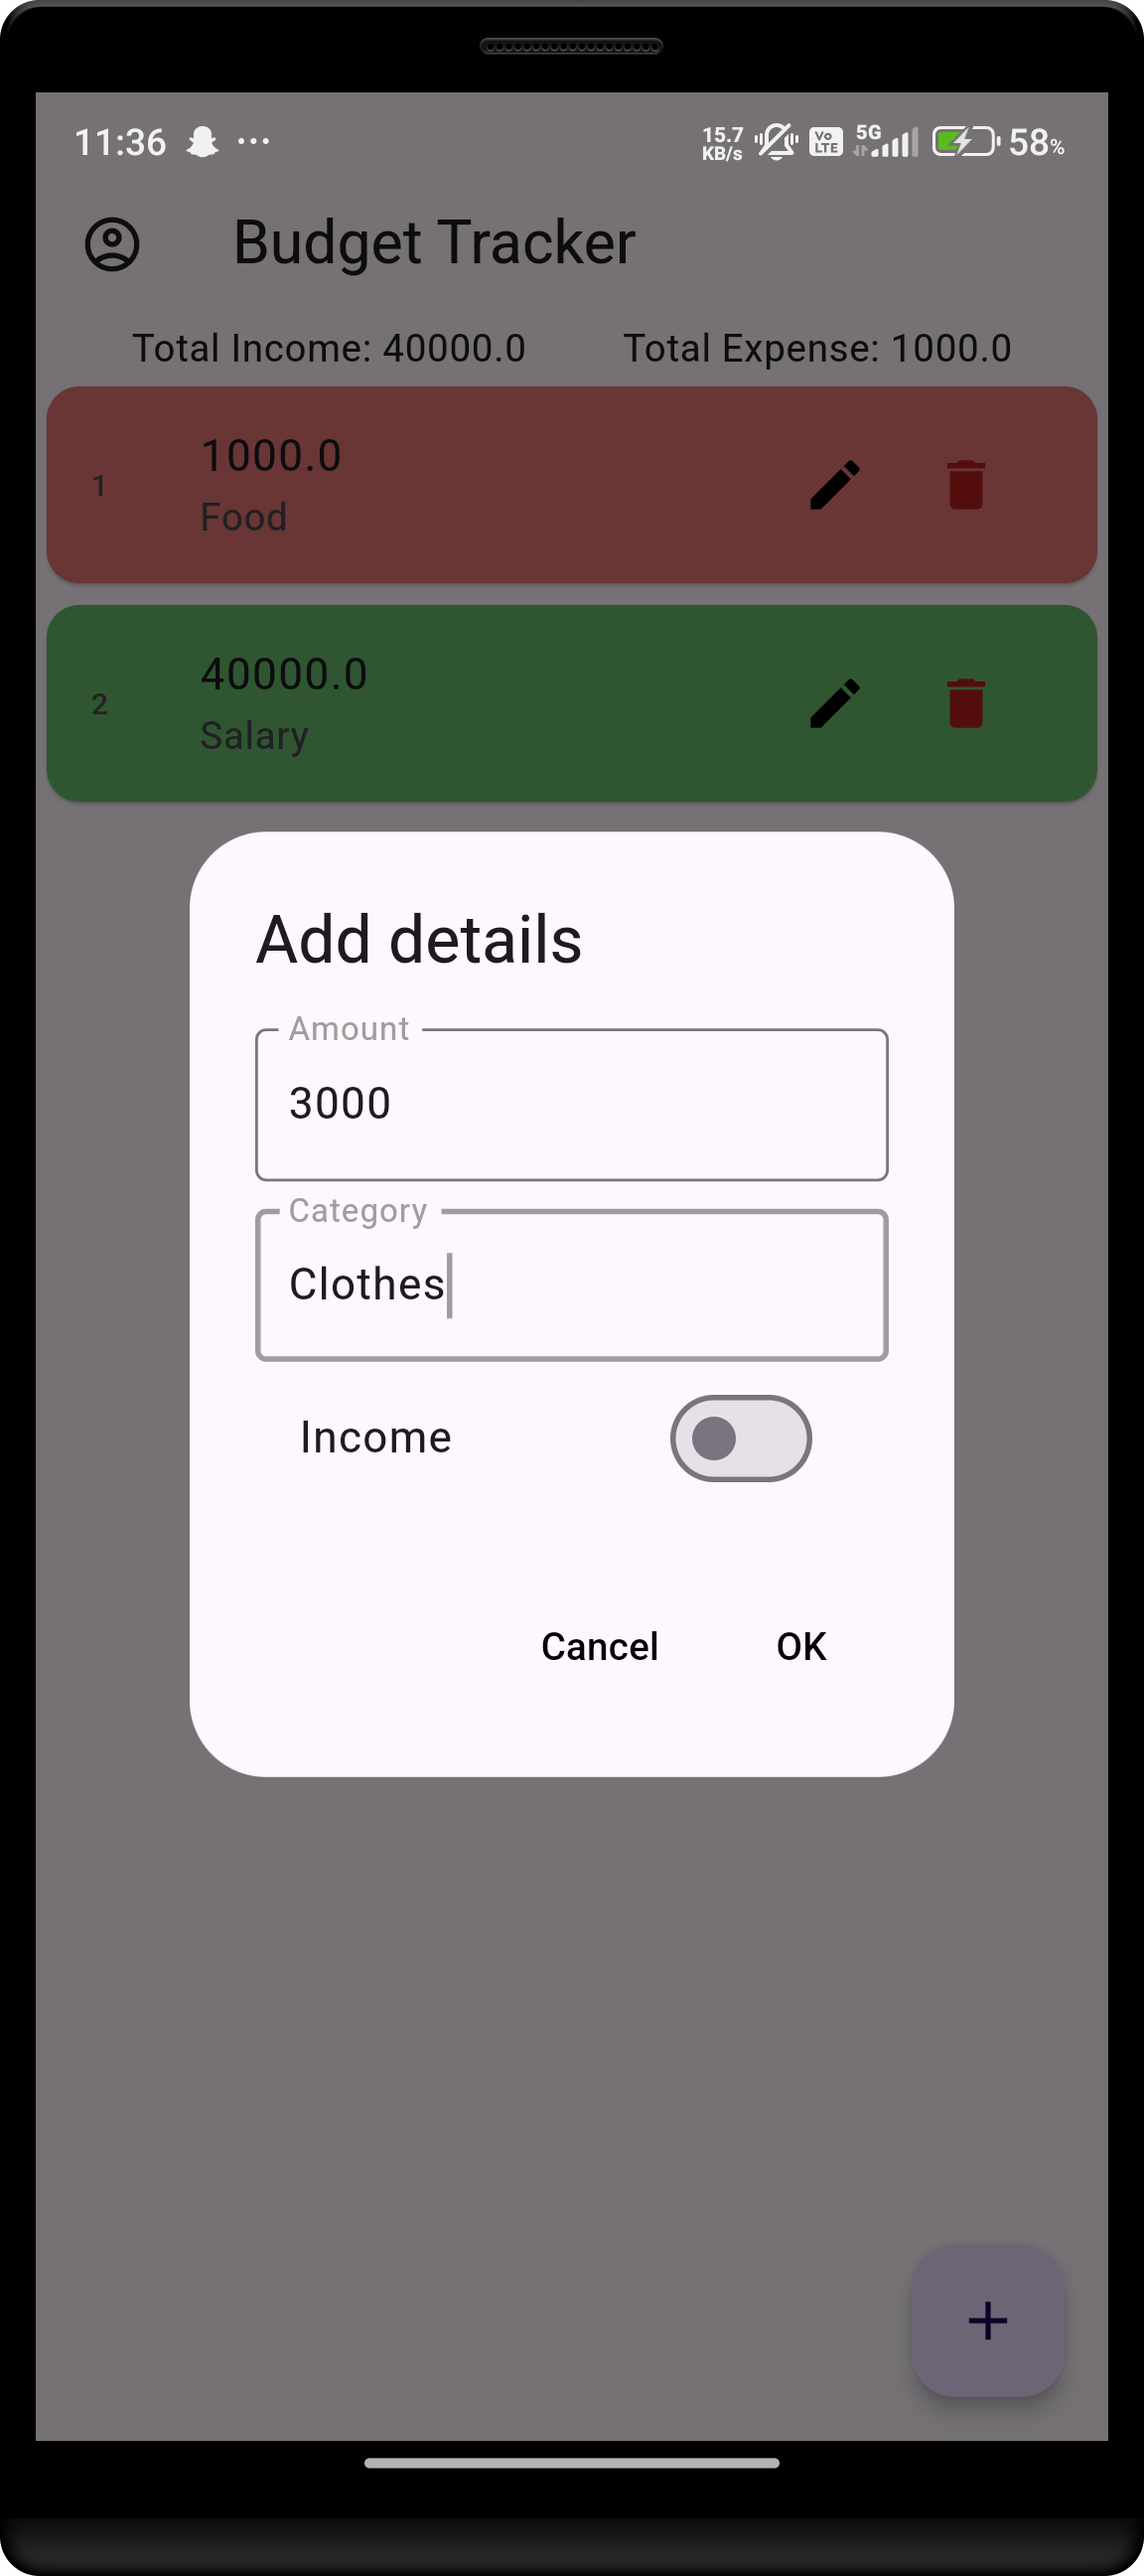
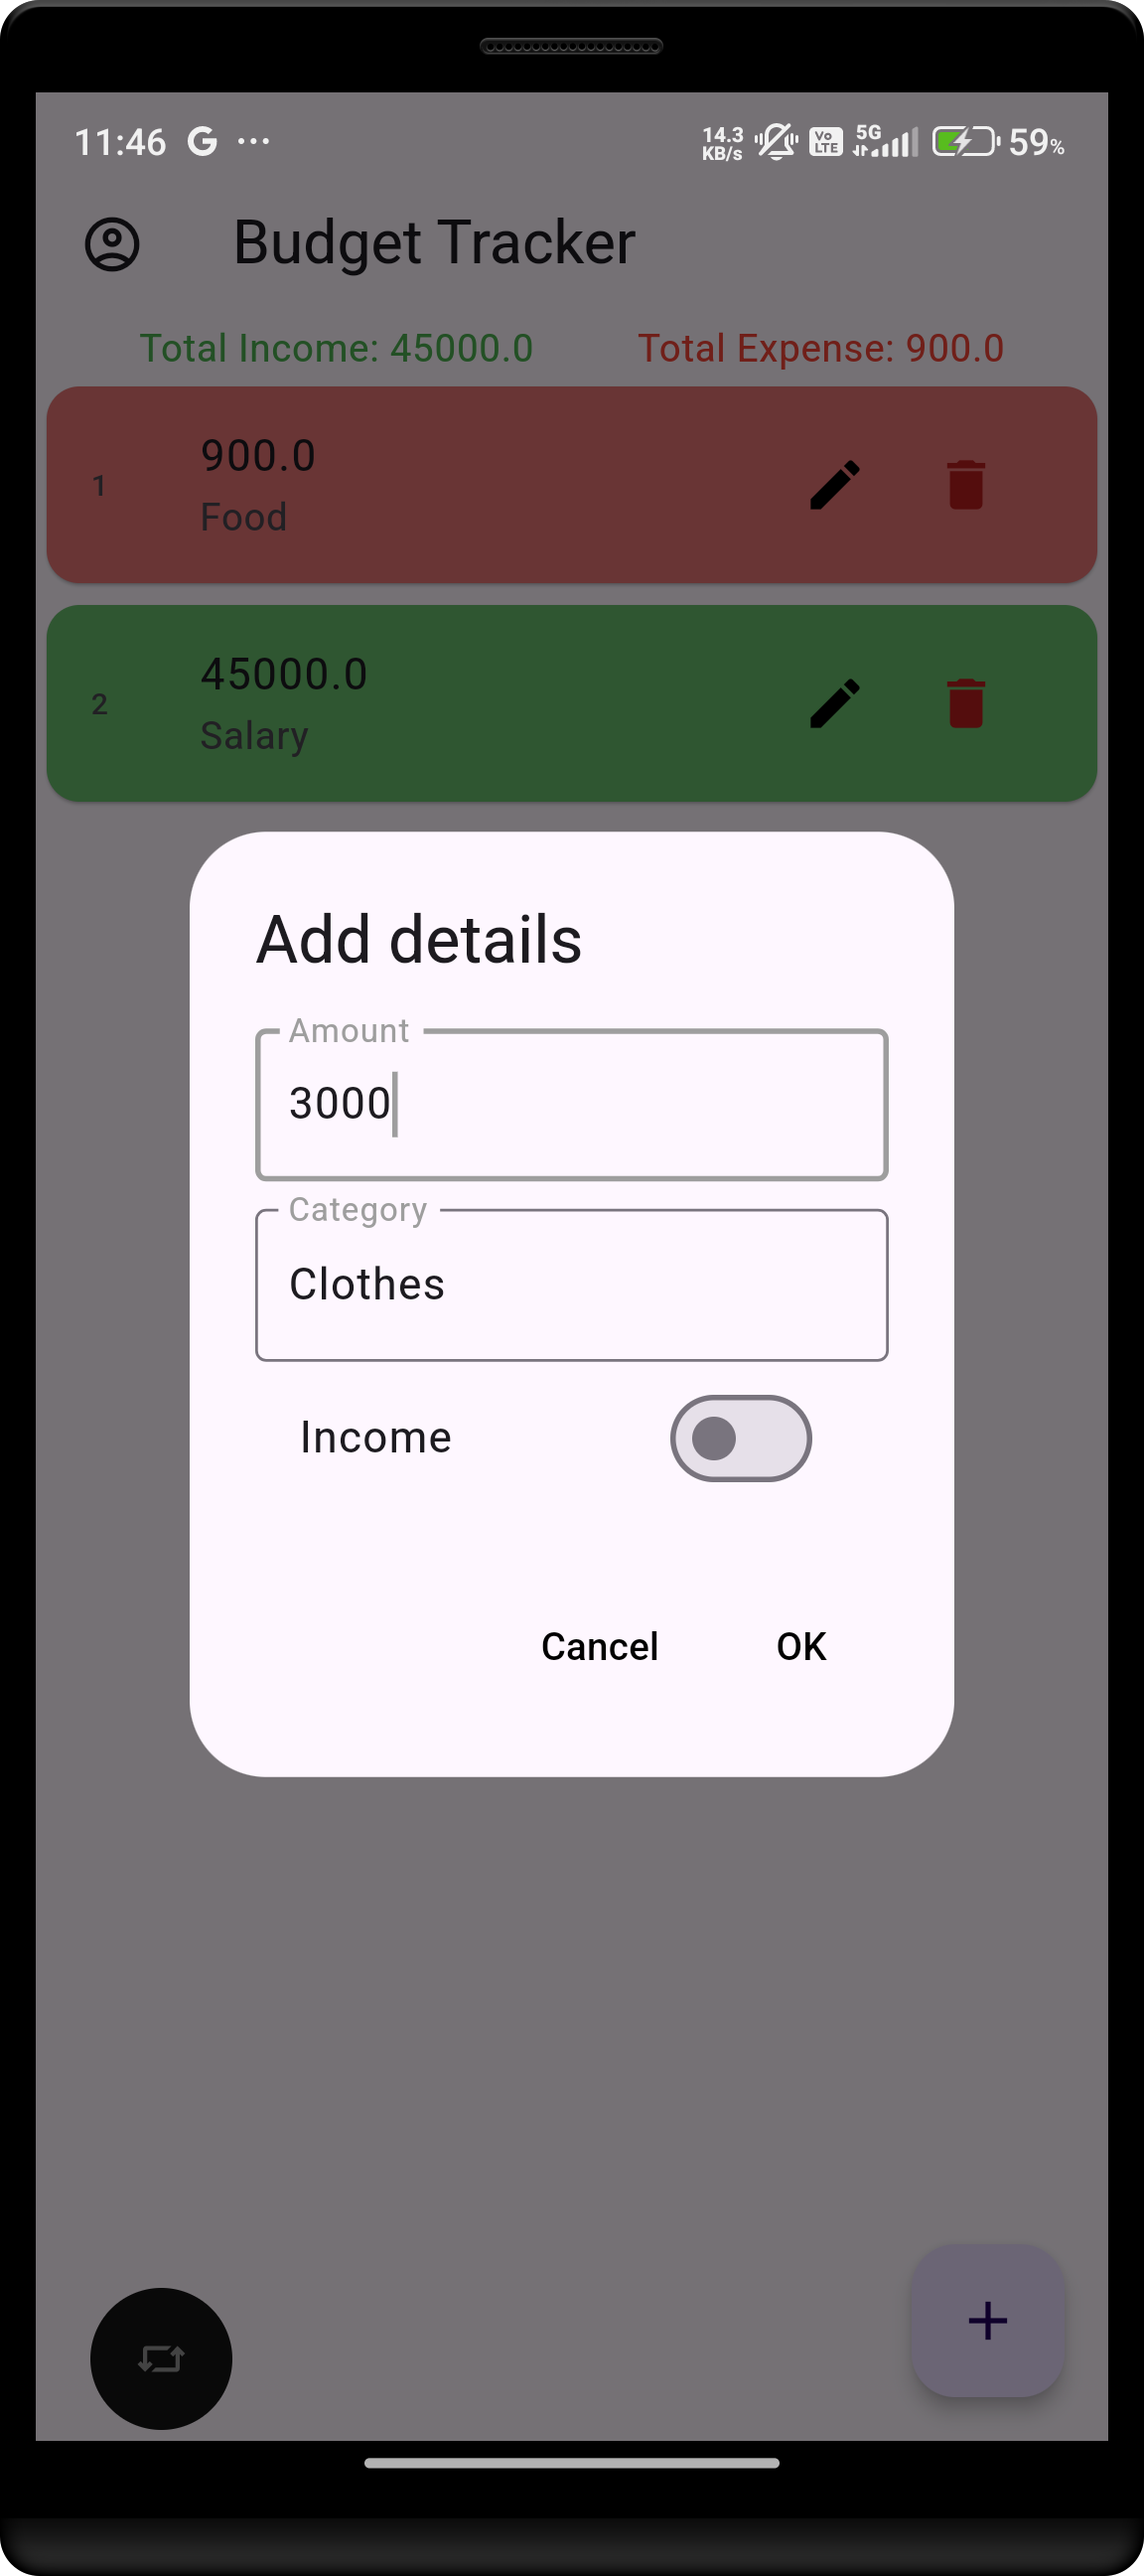
22-08-2024

diff --git a/lib/view/home_screen.dart b/lib/view/home_screen.dart
@@ -18,12 +18,18 @@ class HomeScreen extends StatelessWidget {
             Row(
               mainAxisAlignment: MainAxisAlignment.spaceEvenly,
               children: [
-                Text(controller.totalIncome != 0.0.obs
-                    ? 'Total Income: ${controller.totalIncome}'
-                    : ''),
-                Text(controller.totalExpense != 0.0.obs
-                    ? 'Total Expense: ${controller.totalExpense}'
-                    : ''),
+                Text(
+                  controller.totalIncome != 0.0.obs
+                      ? 'Total Income: ${controller.totalIncome}'
+                      : '',
+                  style: const TextStyle(color: Colors.green),
+                ),
+                Text(
+                  controller.totalExpense != 0.0.obs
+                      ? 'Total Expense: ${controller.totalExpense}'
+                      : '',
+                  style: const TextStyle(color: Colors.red),
+                ),
               ],
             ),
             Expanded(
